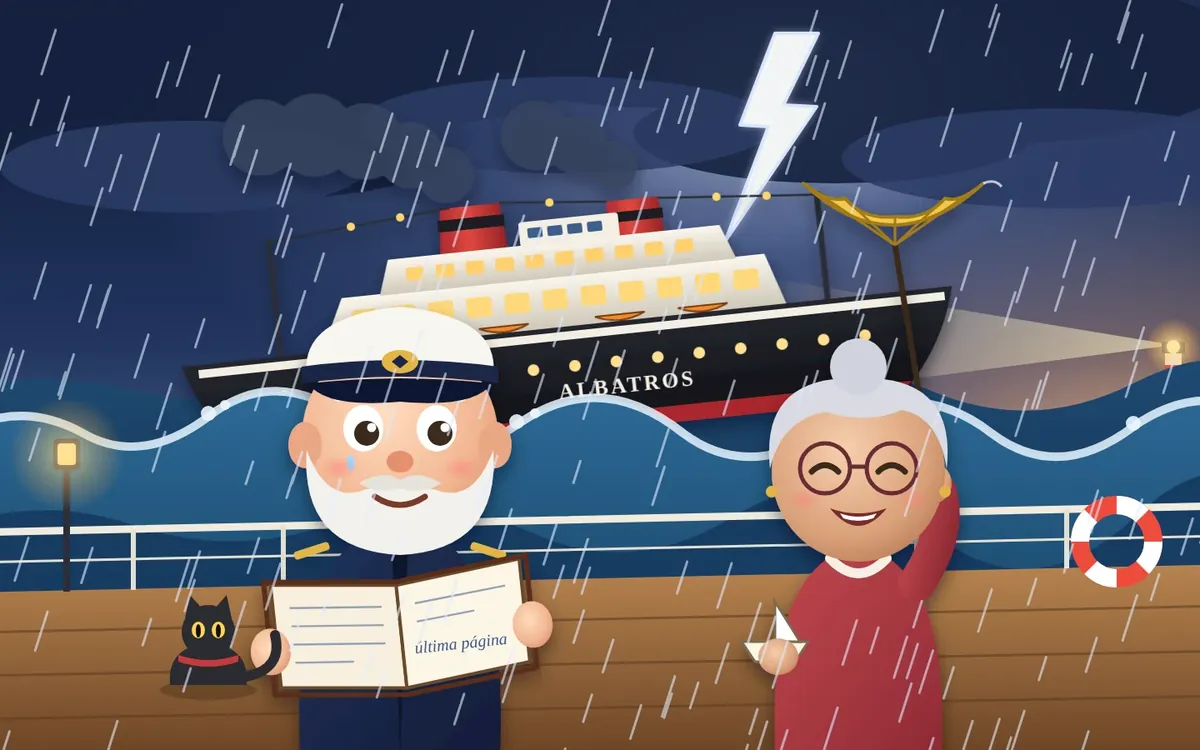
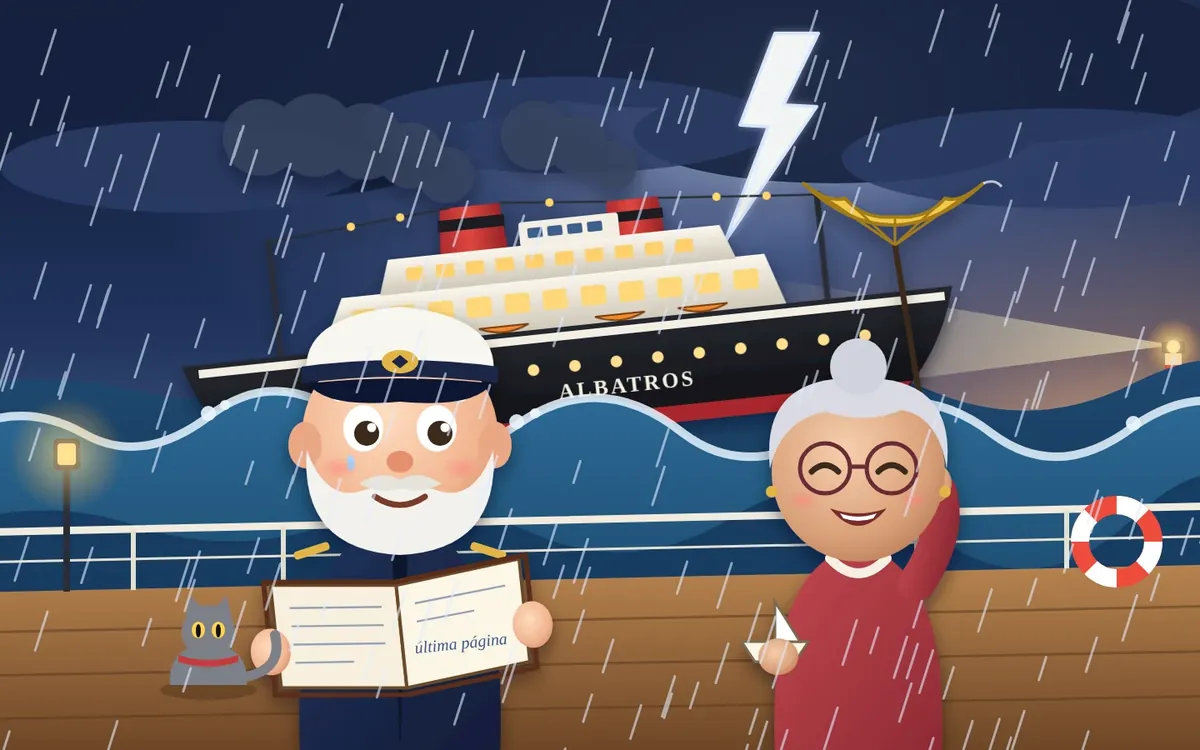
Último crucero: pianist seated clear of the stage in real mode, gray cat and a readable hull name on the cover
Claude-Session: https://claude.ai/code/session_01JUjWx8pGhnw2Nua7RoAQWH

Changed region(s): [[0.1233, 0.7973, 0.2467, 0.92], [0.4933, 0.46, 0.5242, 0.5213]]

diff --git a/scripts/covers/ultimo-crucero.html b/scripts/covers/ultimo-crucero.html
@@ -172,11 +172,11 @@
 <!-- the ship's cat, honorary crew member, sheltering under the captain's book -->
 <g transform="translate(330 812)">
   <ellipse cx="0" cy="16" rx="58" ry="12" fill="#3a2614" opacity=".35"/>
-  <path d="M-46 10 Q-50 -36 0 -40 Q50 -36 46 10 Z" fill="#2b2b33"/>
-  <circle cx="0" cy="-54" r="32" fill="#2b2b33"/><path d="M-28 -70 L-22 -98 L-6 -80 Z M28 -70 L22 -98 L6 -80 Z" fill="#2b2b33"/>
+  <path d="M-46 10 Q-50 -36 0 -40 Q50 -36 46 10 Z" fill="#7d7f88"/>
+  <circle cx="0" cy="-54" r="32" fill="#7d7f88"/><path d="M-28 -70 L-22 -98 L-6 -80 Z M28 -70 L22 -98 L6 -80 Z" fill="#7d7f88"/>
   <ellipse cx="-12" cy="-56" rx="8" ry="10" fill="#ffd34d"/><ellipse cx="12" cy="-56" rx="8" ry="10" fill="#ffd34d"/><ellipse cx="-12" cy="-55" rx="3" ry="8" fill="#111"/><ellipse cx="12" cy="-55" rx="3" ry="8" fill="#111"/>
   <path d="M-36 -26 Q0 -14 36 -26 L36 -18 Q0 -6 -36 -18 Z" fill="#c43b3b"/>
-  <path d="M46 0 Q90 -10 80 -50" stroke="#2b2b33" stroke-width="12" stroke-linecap="round" fill="none"/>
+  <path d="M46 0 Q90 -10 80 -50" stroke="#7d7f88" stroke-width="12" stroke-linecap="round" fill="none"/>
 </g>
 
 <!-- rain over everything -->
@@ -188,6 +188,7 @@
   const g = document.getElementById('rain'), NS = 'http://www.w3.org/2000/svg';
   for (let i = 0; i < 260; i++) {
     const x = rnd() * 1700 - 50, y = rnd() * 900, l = 26 + rnd() * 30, line = document.createElementNS(NS, 'line');
+    if (x > 680 && x - l * .32 < 980 && y + l > 430 && y < 500) continue; // keep the hull name readable
     line.setAttribute('x1', x.toFixed(1)); line.setAttribute('y1', y.toFixed(1));
     line.setAttribute('x2', (x - l * .32).toFixed(1)); line.setAttribute('y2', (y + l).toFixed(1));
     g.appendChild(line);
